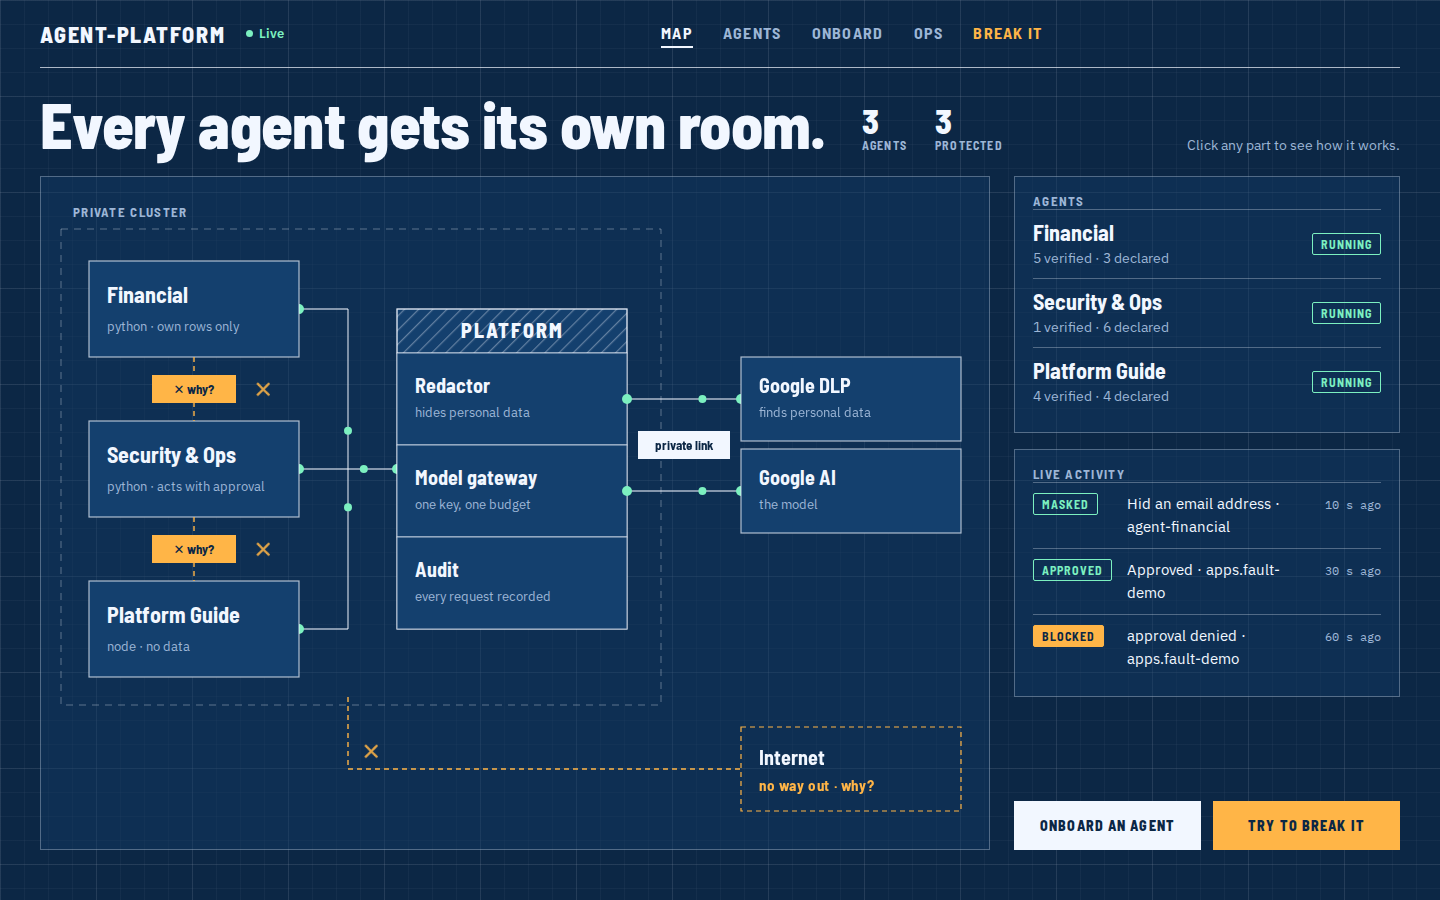
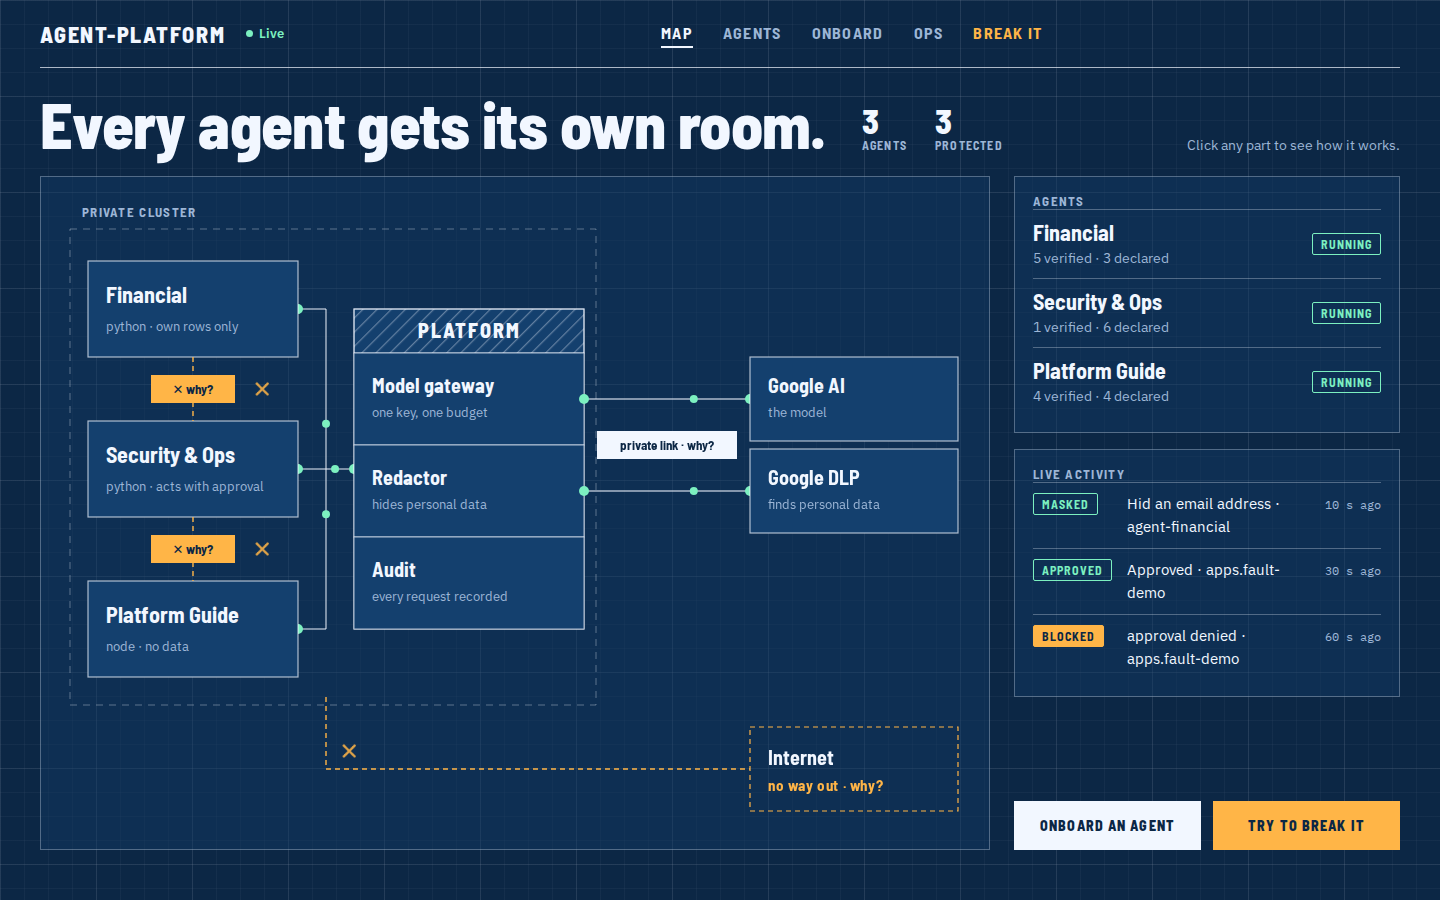
docs(evidence): retake the console screenshots after Map + Explain, passports and Onboard

diff --git a/docs/evidence/console-layout-2026-10-18/README.md b/docs/evidence/console-layout-2026-10-18/README.md
@@ -10,4 +10,7 @@ Measured on every page after the change: the document is 1440 × 900 (no horizon
 past the right edge, no text is clipped, and every label in the Map drawing fits inside its box. At 360 px every console page
 is 360 px wide. Under `prefers-reduced-motion` the drawing has no moving packets and the × marks do not pulse.
 
-`after/7-map-explain.png` shows the Explain drawer opened from the keyboard.
+The `after/` set is from bde7aa8. `after/7-map-explain.png` is Map + Explain: Explain opened from the keyboard on a wall chip
+appears in the right column (420 px, same top and height as the drawing: both 671 px at y = 176) while the drawing stays
+914 px wide and undimmed. Esc brings the aside back and returns focus to the chip. The proof shown is the stub's live
+NetworkPolicy answer.
